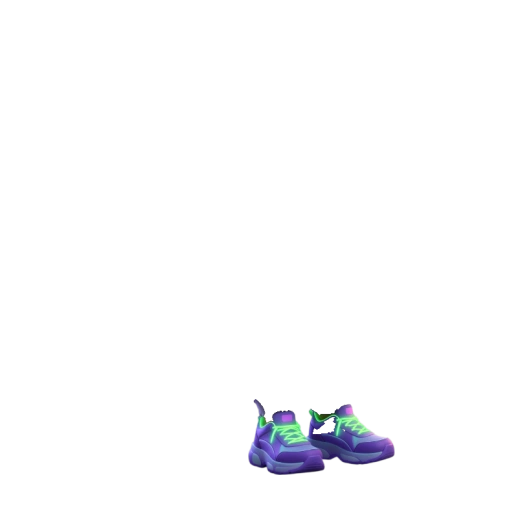
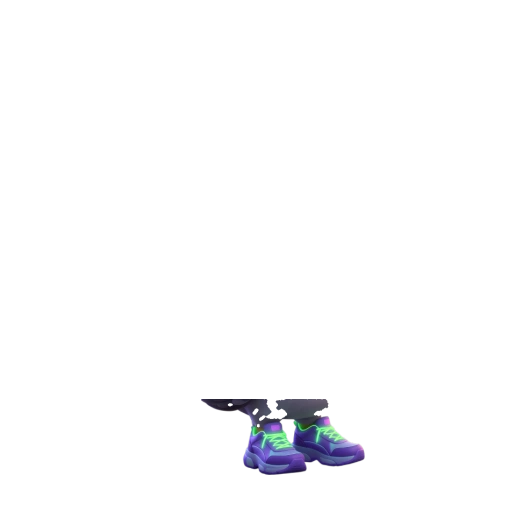
fix: preserve full steel/dark boots without sat filter and replace wall shadow with ground shadow

Changed region(s): [[0.4062, 0.7812, 0.7812, 0.9375]]

diff --git a/src/ui.tsx b/src/ui.tsx
@@ -128,7 +128,7 @@ export const PIGEON_SKIN_COLORS: Record<string, string> = {
   "iridescent-oil-slick": "#5e5a67", "skin-18": "#5e5a67", "18": "#5e5a67",
 };
 
-const ASSET_V = "?v=37";
+const ASSET_V = "?v=38";
 
 export const TAB_BACKGROUNDS: Record<string, string> = {
   birds: `/assets/backgrounds/home.webp${ASSET_V}`,
@@ -586,6 +586,9 @@ function Pigeon({
 
         {/* Радиальное свечение в цвет редкости */}
         <div className="pigeon-halo" />
+
+        {/* Контактная тень строго вниз на платформу под лапами */}
+        <div className="pigeon-ground-shadow" aria-hidden="true" />
 
         {!imgError ? (
           <div

diff --git a/src/style.css b/src/style.css
@@ -623,8 +623,21 @@ button:disabled {
   max-height: 100%;
   max-width: 100%;
   aspect-ratio: 1 / 1;
-  filter: drop-shadow(0 20px 24px #08040cb0);
   animation: idle 4s ease-in-out infinite;
+}
+
+.pigeon-ground-shadow {
+  position: absolute;
+  bottom: 24px;
+  left: 50%;
+  transform: translateX(-50%);
+  width: 136px;
+  height: 22px;
+  border-radius: 50%;
+  background: radial-gradient(ellipse at center, rgba(6, 3, 14, 0.72) 0%, rgba(6, 3, 14, 0.35) 55%, transparent 78%);
+  filter: blur(4px);
+  pointer-events: none;
+  z-index: 5;
 }
 
 .pigeon-layer {

diff --git a/scripts/build-pigeon-assets.py b/scripts/build-pigeon-assets.py
@@ -422,15 +422,13 @@ def extract_accessory_diff(
     y_grid, x_grid = np.indices(TARGET_SIZE)
 
     if slot == "shoes":
-        # Не режем высокие ушки/голенища по прямой: ставим мягкий верхний предел 0.68 (y=334)
-        # и убираем именно серые перья живота/лодыжек по насыщенности и diff
+        # Мягкий верхний предел 0.68 (y=334), чтобы не резать ушки/голенища; убираем только совпадения с телом выше лодыжек
         y_top_limit = y_min_ref + int(h_ref * 0.68)
-        y_ankle = y_min_ref + int(h_ref * 0.86)
-        rgb_s = aligned_rgba[:, :, :3].astype(np.int16)
-        sat = rgb_s.max(axis=2) - rgb_s.min(axis=2)
-        is_belly_grey = ref_body & (y_grid < y_ankle) & ((diff < 42.0) | ((sat < 28) & (diff < 65.0)))
-        cand = (alpha_src > 40) & (y_grid >= y_top_limit) & (~is_belly_grey)
-        opened = cv2.morphologyEx(cand.astype(np.uint8), cv2.MORPH_OPEN, cv2.getStructuringElement(cv2.MORPH_ELLIPSE, (3, 3))) > 0
+        y_ankle = y_min_ref + int(h_ref * 0.81)
+        is_belly = ref_body & (y_grid < y_ankle) & (diff < 32.0)
+        cand = (alpha_src > 40) & (y_grid >= y_top_limit) & (~is_belly)
+        closed = cv2.morphologyEx(cand.astype(np.uint8), cv2.MORPH_CLOSE, cv2.getStructuringElement(cv2.MORPH_ELLIPSE, (7, 7))) > 0
+        opened = cv2.morphologyEx(closed.astype(np.uint8), cv2.MORPH_OPEN, cv2.getStructuringElement(cv2.MORPH_ELLIPSE, (3, 3))) > 0
         num_l, labels, stats, centroids = cv2.connectedComponentsWithStats(opened.astype(np.uint8))
         keep = np.zeros_like(cand)
         for lbl in range(1, num_l):
